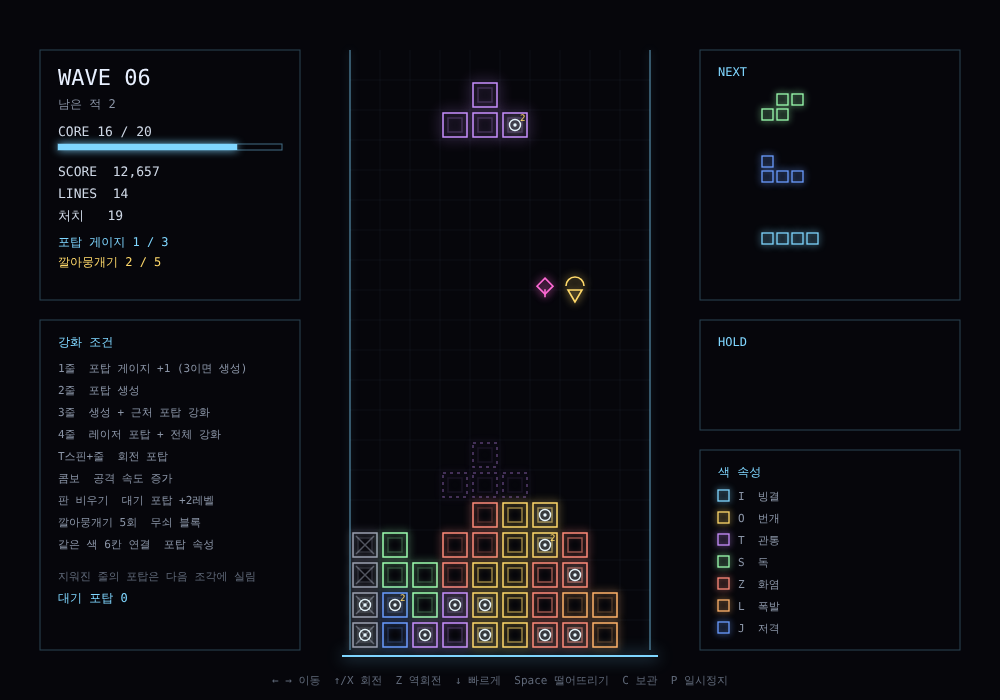
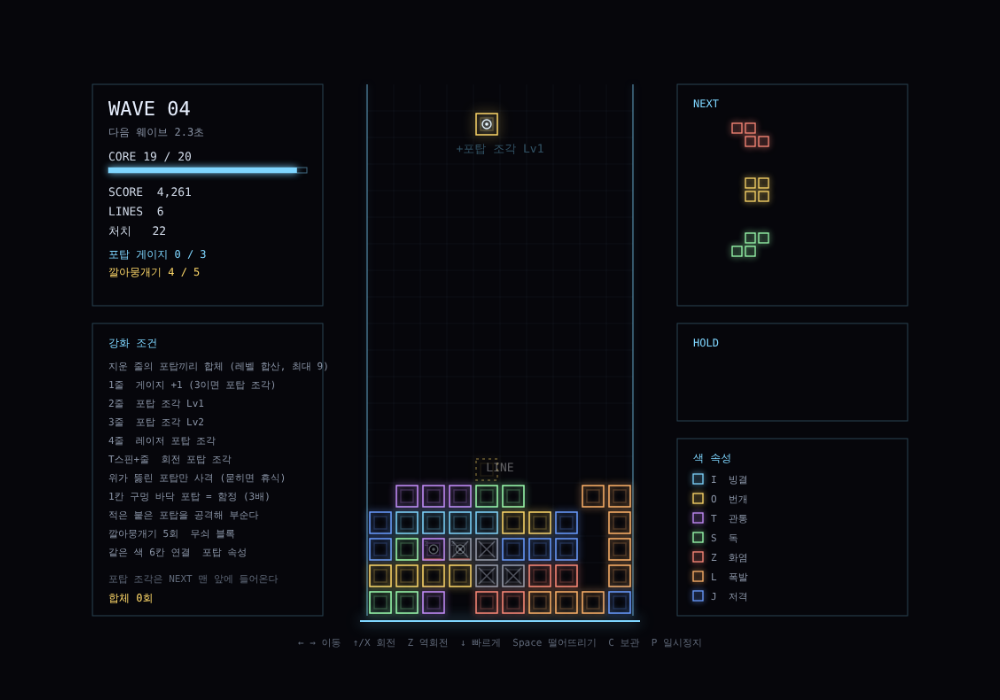
prototype: 포탑 재설계 (포탑 조각, 줄 합체, 함정, 포탑 체력), 적 증가
- 포탑은 1칸짜리 포탑 조각으로만 생성, 다음 목록 맨 앞에 들어옴
- 지운 줄의 포탑끼리 합체해 레벨 합산 (최대 9)
- 위가 뚫린 포탑만 사격, 1칸 구멍 바닥 포탑은 함정 (3배 피해)
- 적이 붙은 포탑을 공격해 부숨, 웨이브당 적 수 증가
- 버그 수정: 포탑 조각 삽입 시 다음 목록이 계속 늘어나던 문제
- 합체 단위 시험 추가, 문서와 의사결정 기록(D-035) 갱신

Claude-Session: https://claude.ai/code/session_016SHfTFKWnAwehWcokYQwXR

diff --git a/prototype/tetris-defense/index.html b/prototype/tetris-defense/index.html
@@ -49,17 +49,18 @@ for (const t in BASE) {
   const n = t === 'I' ? 4 : 3; let cur = BASE[t]; SHAPES[t] = [cur];
   for (let r = 1; r < 4; r++) { cur = t === 'O' ? cur : cur.map(([x, y]) => [n - 1 - y, x]); SHAPES[t].push(cur); }
 }
+SHAPES.P = [[[1,1]], [[1,1]], [[1,1]], [[1,1]]]; // 1칸짜리 포탑 조각
 const KICKS = [[0,0],[-1,0],[1,0],[0,-1],[-2,0],[2,0],[0,1]];
 
 const ENEMY = {
-  grunt:  { name:'낙하병', hp:30,  fall:.09, walk:.40, col:'#ff8a7a', solid:false, crush:true,  core:1 },
-  chute:  { name:'낙하산', hp:20,  fall:.45, walk:.40, col:'#ffd96a', solid:false, crush:true,  core:1 },
-  bomb:   { name:'폭탄',   hp:25,  fall:.09, walk:.50, col:'#ffb36a', solid:false, crush:true,  core:1 },
-  digger: { name:'굴착',   hp:40,  fall:.09, walk:.50, col:'#ff6ad5', solid:false, crush:true,  core:1 },
-  ghost:  { name:'유령',   hp:25,  fall:1.4, walk:9,   col:'#b8c4ff', solid:false, crush:false, core:1 },
-  shield: { name:'방패병', hp:90,  fall:.09, walk:.55, col:'#e8f0ff', solid:true,  crush:false, core:2 },
-  spider: { name:'거미',   hp:25,  fall:.09, walk:.30, col:'#9cffb0', solid:false, crush:true,  core:1 },
-  boss:   { name:'보스',   hp:340, fall:.12, walk:.80, col:'#ff4fa8', solid:true,  crush:false, core:5, size:2 },
+  grunt:  { name:'낙하병', hp:30,  fall:.09, walk:.40, col:'#ff8a7a', solid:false, crush:true,  core:1, atk:8 },
+  chute:  { name:'낙하산', hp:20,  fall:.45, walk:.40, col:'#ffd96a', solid:false, crush:true,  core:1, atk:6 },
+  bomb:   { name:'폭탄',   hp:25,  fall:.09, walk:.50, col:'#ffb36a', solid:false, crush:true,  core:1, atk:0 },
+  digger: { name:'굴착',   hp:40,  fall:.09, walk:.50, col:'#ff6ad5', solid:false, crush:true,  core:1, atk:14 },
+  ghost:  { name:'유령',   hp:25,  fall:1.4, walk:9,   col:'#b8c4ff', solid:false, crush:false, core:1, atk:0 },
+  shield: { name:'방패병', hp:90,  fall:.09, walk:.55, col:'#e8f0ff', solid:true,  crush:false, core:2, atk:12 },
+  spider: { name:'거미',   hp:25,  fall:.09, walk:.30, col:'#9cffb0', solid:false, crush:true,  core:1, atk:6 },
+  boss:   { name:'보스',   hp:340, fall:.12, walk:.80, col:'#ff4fa8', solid:true,  crush:false, core:5, atk:35, size:2 },
 };
 const UNLOCK = [['grunt',1],['chute',2],['bomb',3],['digger',4],['spider',5],['shield',6],['ghost',7]];
 
@@ -73,9 +74,10 @@ function newGame() {
     enemies: [], warnings: [], fx: [], texts: [], beams: [],
     wave: 1, toSpawn: 0, spawnT: 0, breakT: 3, waveActive: false,
     core: 20, score: 0, lines: 0, kills: 0, combo: -1, gauge: 0, crushes: 0, ironNext: false,
-    recycle: [], over: false, paused: false, started: S ? true : false, time: 0, bossAlive: false,
+    merges: 0, over: false, paused: false, started: S ? true : false, time: 0, bossAlive: false,
   };
   for (let i = 0; i < 3; i++) S.next.push(makePiece());
+  S.next.unshift(turretPiece(1, 'basic'));
   spawnPiece();
 }
 function fromBag() {
@@ -84,15 +86,23 @@ function fromBag() {
 }
 function makePiece() {
   const t = fromBag();
-  const turrets = [], idxs = [0, 1, 2, 3].sort(() => Math.random() - .5);
-  while (S.recycle.length && turrets.length < 2) turrets.push({ ...S.recycle.shift(), idx: idxs[turrets.length] });
-  if (!turrets.length && Math.random() < .22) turrets.push({ kind: 'basic', lvl: 1, idx: idxs[0] });
-  return { t, turrets, iron: false };
+  return { t, c: t, turrets: [], iron: false };
+}
+const TKIND_RANK = { basic: 0, spin: 1, laser: 2 };
+const turretHp = l => 40 + 25 * l;
+function turretPiece(lvl, kind) {
+  const cols = Object.keys(BASE);
+  return { t: 'P', c: cols[Math.random() * cols.length | 0], turrets: [{ kind, lvl, idx: 0 }], iron: false };
+}
+// 포탑 조각을 다음 목록 맨 앞에 넣는다
+function addTurretPiece(lvl, kind, label) {
+  lvl = Math.min(9, lvl); S.next.unshift(turretPiece(lvl, kind));
+  popText(label || `+포탑 조각 Lv${lvl}`, 4.5, 3, '#7fd6ff');
 }
 function spawnPiece() {
-  const p = S.next.shift(); S.next.push(makePiece());
+  const p = S.next.shift(); while (S.next.length < 3) S.next.push(makePiece()); // 포탑 조각을 끼워 넣어도 목록이 늘어나지 않게
   if (S.ironNext) { p.iron = true; S.ironNext = false; }
-  S.piece = { ...p, r: 0, x: 3, y: p.t === 'I' ? -1 : 0 };
+  S.piece = { ...p, r: 0, x: p.t === 'P' ? 3 : 3, y: p.t === 'I' ? -1 : p.t === 'P' ? -1 : 0 };
   S.lockT = 0; S.lockMoves = 0; S.lastRotate = false; S.dropT = 0;
   if (cellsOf(S.piece).some(([x, y]) => y >= 0 && S.board[y][x])) gameOver('블록이 천장에 닿았다');
 }
@@ -126,8 +136,8 @@ const onGround = () => collide(S.piece, S.piece.x, S.piece.y + 1, S.piece.r);
 function softDrop() { const p = S.piece; if (!collide(p, p.x, p.y + 1, p.r)) { p.y++; S.score += 1; S.lastRotate = false; S.dropT = 0; } }
 function hardDrop() { const p = S.piece; let n = 0; while (!collide(p, p.x, p.y + 1, p.r)) { p.y++; n++; } if (n) S.lastRotate = false; S.score += n * 2; crushCheck(); lock(); }
 function holdPiece() {
-  if (!S.canHold) return; const cur = { t: S.piece.t, turrets: S.piece.turrets, iron: S.piece.iron };
-  if (S.hold) { const h = S.hold; S.hold = cur; S.piece = { ...h, r: 0, x: 3, y: h.t === 'I' ? -1 : 0 }; S.lockT = 0; S.lockMoves = 0; }
+  if (!S.canHold) return; const cur = { t: S.piece.t, c: S.piece.c, turrets: S.piece.turrets, iron: S.piece.iron };
+  if (S.hold) { const h = S.hold; S.hold = cur; S.piece = { ...h, r: 0, x: 3, y: h.t === 'I' || h.t === 'P' ? -1 : 0 }; S.lockT = 0; S.lockMoves = 0; }
   else { S.hold = cur; spawnPiece(); }
   S.canHold = false;
 }
@@ -148,7 +158,7 @@ function lock() {
   cells.forEach(([x, y], i) => {
     if (y < 0) { above = true; return; }
     const tu = p.turrets.find(q => q.idx === i);
-    S.board[y][x] = { c: p.iron ? 'X' : p.t, iron: p.iron, turret: tu ? { kind: tu.kind, lvl: tu.lvl, cd: .5 } : null };
+    S.board[y][x] = { c: p.iron ? 'X' : (p.c || p.t), iron: p.iron, turret: tu ? { kind: tu.kind, lvl: tu.lvl, cd: .5, hp: turretHp(tu.lvl), maxhp: turretHp(tu.lvl) } : null };
   });
   S.canHold = true;
   if (above) { gameOver('블록이 천장을 넘었다'); return; }
@@ -159,8 +169,8 @@ function lock() {
   spawnPiece();
 }
 function clearRows(rows, tspin) {
-  const n = rows.length;
-  rows.forEach(y => S.board[y].forEach(c => { if (c.turret) S.recycle.push({ kind: c.turret.kind, lvl: c.turret.lvl }); }));
+  const n = rows.length, found = [];
+  rows.forEach(y => S.board[y].forEach(c => { if (c.turret) found.push(c.turret); }));
   for (const y of rows.slice().sort((a, b) => a - b)) {
     S.board.splice(y, 1); S.board.unshift(Array(COLS).fill(null));
     S.enemies.forEach(e => { if (ENEMY[e.type].solid || e.type === 'ghost') { if (e.gy === y) e.dead = true; } if (e.gy < y) { e.gy++; e.py++; } });
@@ -170,27 +180,23 @@ function clearRows(rows, tspin) {
   S.lines += n; S.combo++;
   S.score += [0, 100, 300, 500, 800][n] * S.wave + Math.max(0, S.combo) * 50;
   const midY = rows[0];
-  const label = ['', 'LINE', 'DOUBLE', 'TRIPLE', 'TETRIS'][n];
-  popText(label + (S.combo > 0 ? `  COMBO x${S.combo}` : ''), 4.5, midY, '#ffffff');
-  if (n === 1) { S.gauge++; if (S.gauge >= 3) { S.gauge -= 3; createTurret('basic'); } }
-  if (n === 2) createTurret('basic');
-  if (n === 3) { createTurret('basic'); upgradeNear(midY, 4); }
-  if (n === 4) { createTurret('laser'); upgradeAll(); }
-  if (tspin) { createTurret('spin'); popText('T-SPIN', 4.5, midY - 1, COLOR.T); }
-  if (S.board.every(r => r.every(c => !c))) { popText('PERFECT CLEAR', 4.5, 10, '#9cffb0'); S.recycle.forEach(t => t.lvl = Math.min(5, t.lvl + 2)); S.gauge = 2; }
-}
-function surfaceCells() { const out = []; for (let x = 0; x < COLS; x++) for (let y = 0; y < ROWS; y++) if (S.board[y][x]) { if (!S.board[y][x].turret && !S.board[y][x].iron) out.push([x, y]); break; } return out; }
-function createTurret(kind) {
-  const cand = surfaceCells();
-  if (!cand.length) { S.recycle.push({ kind, lvl: 1 }); popText('포탑 대기', 4.5, 3, '#7fd6ff'); return; }
-  const [x, y] = cand[Math.random() * cand.length | 0];
-  S.board[y][x].turret = { kind, lvl: 1, cd: .3 };
-  popText({ basic: '+포탑', laser: '+레이저 포탑', spin: '+회전 포탑' }[kind], x, y, '#7fd6ff');
-  S.fx.push({ kind: 'ring', x: x + .5, y: y + .5, t: .5, col: '#7fd6ff' });
+  popText(['', 'LINE', 'DOUBLE', 'TRIPLE', 'TETRIS'][n] + (S.combo > 0 ? `  COMBO x${S.combo}` : ''), 4.5, midY, '#ffffff');
+  // 보상 포탑 조각
+  if (n === 1) { S.gauge++; if (S.gauge >= 3) { S.gauge -= 3; addTurretPiece(1, 'basic'); } }
+  if (n === 2) addTurretPiece(1, 'basic');
+  if (n === 3) addTurretPiece(2, 'basic');
+  if (n === 4) addTurretPiece(2, 'laser', '+레이저 포탑 조각');
+  if (tspin) addTurretPiece(1, 'spin', '+회전 포탑 조각');
+  // 지운 줄의 포탑 합체: 레벨 합산, 가장 좋은 종류 유지 (맨 앞에 오도록 마지막에 넣는다)
+  if (found.length) {
+    const lvl = Math.min(9, found.reduce((a, t) => a + t.lvl, 0));
+    const kind = found.reduce((a, t) => TKIND_RANK[t.kind] > TKIND_RANK[a] ? t.kind : a, 'basic');
+    if (found.length >= 2) { S.merges++; S.fx.push({ kind: 'ring', x: 4.5, y: midY + .5, t: .6, col: '#ffd96a', big: true }); }
+    addTurretPiece(lvl, kind, found.length >= 2 ? `포탑 ${found.length}개 합체! Lv${lvl}` : `포탑 회수 Lv${lvl}`);
+  }
+  if (S.board.every(r => r.every(c => !c))) { popText('PERFECT CLEAR', 4.5, 10, '#9cffb0'); S.next.forEach(q => q.turrets.forEach(t => t.lvl = Math.min(9, t.lvl + 2))); S.gauge = 2; }
 }
 function forTurrets(fn) { for (let y = 0; y < ROWS; y++) for (let x = 0; x < COLS; x++) { const c = S.board[y][x]; if (c && c.turret) fn(c, x, y); } }
-function upgradeNear(cy, r) { let n = 0; forTurrets((c, x, y) => { if (Math.abs(y - cy) <= r && c.turret.lvl < 5) { c.turret.lvl++; n++; S.fx.push({ kind: 'ring', x: x + .5, y: y + .5, t: .5, col: '#9cffb0' }); } }); if (n) popText(`포탑 ${n}개 강화`, 4.5, cy - 2, '#9cffb0'); }
-function upgradeAll() { let n = 0; forTurrets(c => { if (c.turret.lvl < 5) { c.turret.lvl++; n++; } }); S.recycle.forEach(t => t.lvl = Math.min(5, t.lvl + 1)); if (n) popText(`포탑 전체 강화`, 4.5, 8, '#9cffb0'); }
 function recomputeGroups() {
   const seen = Array.from({ length: ROWS }, () => Array(COLS).fill(false));
   for (let y = 0; y < ROWS; y++) for (let x = 0; x < COLS; x++) {
@@ -204,7 +210,7 @@ function recomputeGroups() {
 }
 function removeBlock(x, y) {
   const c = S.board[y]?.[x]; if (!c || c.iron) return false;
-  if (c.turret) S.recycle.push({ kind: c.turret.kind, lvl: c.turret.lvl });
+  if (c.turret) popText('포탑 파괴', x, y, '#ff6a6a');
   S.board[y][x] = null; S.fx.push({ kind: 'burst', x: x + .5, y: y + .5, t: .4, col: COLOR[c.c] }); return true;
 }
 
@@ -235,6 +241,17 @@ function stepEnemy(e, dt) {
   if (!blockedForEnemy(e, e.gx, e.gy + 1)) { e.gy++; e.prog = 0; e.dur = e.landed ? .09 : d.fall; e.stuck = 0; return; }
   if (!e.landed) { e.landed = true; if (e.type === 'bomb') e.fuse = 1.0; }
   if (e.type === 'bomb' && e.fuse > 0) { e.fuse -= dt; if (e.fuse <= 0) explode(e); return; }
+  // 옆이나 아래에 포탑이 붙어 있으면 멈춰 서서 공격
+  if (d.atk > 0) {
+    const adj = [];
+    for (let i = 0; i < sz; i++) adj.push([e.gx + i, e.gy + sz]);
+    for (let j = 0; j < sz; j++) adj.push([e.gx - 1, e.gy + j], [e.gx + sz, e.gy + j]);
+    for (const [ax, ay] of adj) { const c = S.board[ay]?.[ax]; if (c && c.turret) {
+      c.turret.hp -= d.atk * dt * (e.slow > 0 ? .5 : 1); e.attacking = [ax, ay];
+      if (c.turret.hp <= 0) { c.turret = null; S.fx.push({ kind: 'burst', x: ax + .5, y: ay + .5, t: .5, col: '#ff6a6a' }); popText('포탑 파괴', ax, ay, '#ff6a6a'); e.attacking = null; }
+      return; } }
+    e.attacking = null;
+  }
   e.stuck += dt;
   const chewAt = e.type === 'digger' ? 1.1 : 5;
   if (e.stuck >= chewAt && e.gy + sz < ROWS) { for (let i = 0; i < sz; i++) removeBlock(e.gx + i, e.gy + sz); recomputeGroups(); e.stuck = 0; return; }
@@ -271,15 +288,22 @@ function crushCheck() {
 }
 
 // ---------------------------------------------------------------- 포탑
-const TURRET = { basic: { dmg: 10, cd: .7, range: 3.5 }, laser: { dmg: 7, cd: .18, range: 5.5 }, spin: { dmg: 9, cd: 1.0, range: 2.2 } };
+const TURRET = { basic: { dmg: 12, cd: .6, range: 3.2 }, laser: { dmg: 8, cd: .16, range: 5.2 }, spin: { dmg: 10, cd: .9, range: 2.2 } };
+const exposed = (x, y) => y === 0 || !S.board[y - 1][x];
+const isTrap = (x, y) => y > 0 && !S.board[y - 1][x] && (x === 0 || S.board[y - 1][x - 1]) && (x === COLS - 1 || S.board[y - 1][x + 1]);
 function updateTurrets(dt) {
   const rate = 1 + Math.max(0, Math.min(S.combo, 10)) * .08;
   forTurrets((c, x, y) => {
     const T = TURRET[c.turret.kind], lvl = c.turret.lvl; const attr = c.attr;
-    let range = T.range + .3 * (lvl - 1), dmg = T.dmg * (1 + .5 * (lvl - 1)), cd = T.cd;
+    if (!exposed(x, y)) return; // 묻힌 포탑은 쉰다
+    let range = T.range + .35 * (lvl - 1), dmg = T.dmg * (1 + .6 * (lvl - 1)), cd = T.cd;
     if (attr === 'J') { range += 2.5; dmg *= 1.6; cd *= 1.4; } if (attr === 'T') dmg *= 1.25;
     c.turret.cd -= dt * rate; if (c.turret.cd > 0) return;
     const cx = x + .5, cy = y + .5;
+    if (isTrap(x, y)) { // 구멍 함정: 같은 세로줄 위 3칸 안의 적에게 3배 피해
+      const tg = S.enemies.find(e => !e.dead && e.gx === x && e.gy >= y - 3 && e.gy <= y - 1);
+      if (!tg) return; c.turret.cd = .35; const [ex, ey] = epos(tg);
+      S.beams.push({ x1: cx, y1: cy - .3, x2: ex, y2: ey, t: .09, col: '#ffd96a' }); hitEnemy(tg, dmg * 3, attr); return; }
     const inR = S.enemies.filter(e => !e.dead && e.gy >= 0 && dist(e, cx, cy) <= range);
     if (!inR.length) return;
     c.turret.cd = cd;
@@ -301,14 +325,15 @@ function segDist(e, x1, y1, x2, y2) { const [px, py] = epos(e); const dx = x2 - 
 
 // ---------------------------------------------------------------- 웨이브
 function updateWaves(dt) {
-  if (!S.waveActive) { S.breakT -= dt; if (S.breakT <= 0) { S.waveActive = true; S.toSpawn = 6 + S.wave * 3; S.spawnT = 1; if (S.wave % 5 === 0) S.warnings.push({ type: 'boss', x: 1 + Math.random() * 7 | 0, t: 2.0 }); popText(`WAVE ${S.wave}`, 4.5, 6, '#7fd6ff'); } return; }
+  if (!S.waveActive) { S.breakT -= dt; if (S.breakT <= 0) { S.waveActive = true; S.toSpawn = 10 + S.wave * 5; S.spawnT = 1; if (S.wave % 5 === 0) S.warnings.push({ type: 'boss', x: 1 + Math.random() * 7 | 0, t: 2.0 }); popText(`WAVE ${S.wave}`, 4.5, 6, '#7fd6ff'); } return; }
   S.spawnT -= dt;
   if (S.toSpawn > 0 && S.spawnT <= 0) {
-    S.spawnT = Math.max(.55, 2.3 - S.wave * .12); S.toSpawn--;
+    S.spawnT = Math.max(.35, 1.6 - S.wave * .1); S.toSpawn--;
     const pool = UNLOCK.filter(([, w]) => S.wave >= w).map(([t]) => t);
     let type = pool[Math.random() * pool.length | 0];
     if ((type === 'shield' || type === 'spider') && S.enemies.filter(e => e.type === 'shield' || e.type === 'spider').length + S.warnings.filter(w => w.type === 'shield' || w.type === 'spider').length >= 2) type = 'grunt';
     S.warnings.push({ type, x: Math.random() * COLS | 0, t: 1.3 });
+    if (S.wave >= 3 && S.toSpawn > 0 && Math.random() < .4) { S.toSpawn--; S.warnings.push({ type: 'grunt', x: Math.random() * COLS | 0, t: 1.5 }); }
   }
   if (S.toSpawn <= 0 && !S.enemies.length && !S.warnings.length) { S.waveActive = false; S.wave++; S.breakT = 6; S.score += 200 * S.wave; }
 }
@@ -351,12 +376,20 @@ function block(x, y, col, o = {}) {
   if (o.iron) { g.globalAlpha = .5; g.beginPath(); g.moveTo(X(x) + 6, Y(y) + 6); g.lineTo(X(x) + CELL - 6, Y(y) + CELL - 6); g.moveTo(X(x) + CELL - 6, Y(y) + 6); g.lineTo(X(x) + 6, Y(y) + CELL - 6); g.stroke(); }
   g.globalAlpha = 1;
 }
-function turretMark(x, y, t, alpha = 1) {
-  if (y < 0) return; const cx = X(x) + CELL / 2, cy = Y(y) + CELL / 2; g.globalAlpha = alpha; glow('#e8f8ff', 10); g.lineWidth = 1.4;
-  if (t.kind === 'laser') { g.strokeRect(cx - 6, cy - 6, 12, 12); g.beginPath(); g.moveTo(cx, cy - 9); g.lineTo(cx, cy + 9); g.stroke(); }
-  else if (t.kind === 'spin') { g.beginPath(); g.arc(cx, cy, 6, 0, 4.7); g.stroke(); g.beginPath(); g.arc(cx, cy, 2, 0, 6.3); g.fill(); }
-  else { g.beginPath(); g.arc(cx, cy, 5.5, 0, 6.3); g.stroke(); g.beginPath(); g.arc(cx, cy, 1.7, 0, 6.3); g.fill(); }
-  g.shadowBlur = 0; if (t.lvl > 1) { g.fillStyle = '#ffd96a'; g.font = '9px monospace'; g.fillText(t.lvl, X(x) + CELL - 10, Y(y) + 11); } g.globalAlpha = 1;
+function turretMark(x, y, t, alpha = 1, onBoard = false) {
+  if (y < 0) return; const cx = X(x) + CELL / 2, cy = Y(y) + CELL / 2;
+  const rest = onBoard && !exposed(x, y), trap = onBoard && !rest && isTrap(x, y);
+  g.globalAlpha = alpha * (rest ? .35 : 1); const col = trap ? '#ffd96a' : '#e8f8ff'; glow(col, rest ? 0 : 10); g.lineWidth = 1.4;
+  const r = 4.5 + Math.min(t.lvl, 9) * .45;
+  if (trap) { g.beginPath(); g.moveTo(cx - 8, cy + 6); for (let i = 0; i < 4; i++) { g.lineTo(cx - 8 + i * 4 + 2, cy - 6); g.lineTo(cx - 8 + i * 4 + 4, cy + 6); } g.stroke(); }
+  else if (t.kind === 'laser') { g.strokeRect(cx - r, cy - r, r * 2, r * 2); g.beginPath(); g.moveTo(cx, cy - r - 3); g.lineTo(cx, cy + r + 3); g.stroke(); }
+  else if (t.kind === 'spin') { g.beginPath(); g.arc(cx, cy, r, 0, 4.7); g.stroke(); g.beginPath(); g.arc(cx, cy, 2, 0, 6.3); g.fill(); }
+  else { g.beginPath(); g.arc(cx, cy, r, 0, 6.3); g.stroke(); g.beginPath(); g.arc(cx, cy, 1.8, 0, 6.3); g.fill(); }
+  if (t.lvl >= 5 && !trap) { g.lineWidth = 1; g.beginPath(); g.arc(cx, cy, r + 3.5, 0, 6.3); g.stroke(); }
+  g.shadowBlur = 0; if (t.lvl > 1) { g.fillStyle = '#ffd96a'; g.font = 'bold 10px monospace'; g.fillText(t.lvl, X(x) + CELL - 11, Y(y) + 11); }
+  if (onBoard && t.hp < t.maxhp) { g.fillStyle = 'rgba(255,255,255,.15)'; g.fillRect(X(x) + 4, Y(y) + CELL - 5, CELL - 8, 2); g.fillStyle = '#ff6a6a'; g.fillRect(X(x) + 4, Y(y) + CELL - 5, (CELL - 8) * Math.max(0, t.hp / t.maxhp), 2); }
+  if (rest) { g.fillStyle = '#8a94a6'; g.font = '9px monospace'; g.fillText('z', X(x) + 4, Y(y) + 11); }
+  g.globalAlpha = 1;
 }
 function drawEnemy(e) {
   const d = ENEMY[e.type], sz = d.size || 1, [ex, ey] = epos(e);
@@ -376,8 +409,8 @@ function drawEnemy(e) {
   if (e.hp < e.maxhp) { g.shadowBlur = 0; g.fillStyle = 'rgba(255,255,255,.15)'; const w = 16 * sz; g.fillRect(px - w / 2, py - 13 * sz, w, 2); g.fillStyle = d.col; g.fillRect(px - w / 2, py - 13 * sz, w * Math.max(0, e.hp / e.maxhp), 2); }
 }
 function drawMini(p, x0, y0, s = 15) {
-  if (!p) return; SHAPES[p.t][0].forEach(([x, y], i) => { const col = p.iron ? COLOR.X : COLOR[p.t]; g.lineWidth = 1.3; glow(col, 7); g.strokeRect(x0 + x * s + 2, y0 + y * s + 2, s - 4, s - 4);
-    if (p.turrets.some(q => q.idx === i)) { g.beginPath(); g.arc(x0 + x * s + s / 2, y0 + y * s + s / 2, 2.5, 0, 6.3); g.stroke(); } });
+  if (!p) return; SHAPES[p.t][0].forEach(([x, y], i) => { const col = p.iron ? COLOR.X : COLOR[p.c || p.t]; g.lineWidth = 1.3; glow(col, 7); g.strokeRect(x0 + x * s + 2, y0 + y * s + 2, s - 4, s - 4);
+    const tq = p.turrets.find(q => q.idx === i); if (tq) { g.beginPath(); g.arc(x0 + x * s + s / 2, y0 + y * s + s / 2, 3, 0, 6.3); g.stroke(); if (tq.lvl > 1) text('Lv' + tq.lvl, x0 + x * s + s + 4, y0 + y * s + s - 3, '#ffd96a', 11); } });
 }
 function text(s, x, y, col = '#cfd8e6', size = 13, align = 'left') { g.shadowBlur = 0; g.fillStyle = col; g.font = `${size}px "DejaVu Sans Mono", "Noto Sans KR", monospace`; g.textAlign = align; g.fillText(s, x, y); g.textAlign = 'left'; }
 function panel(x, y, w, h) { g.shadowBlur = 0; g.strokeStyle = 'rgba(127,214,255,.3)'; g.lineWidth = 1; g.strokeRect(x, y, w, h); }
@@ -397,16 +430,17 @@ function draw() {
     const cx = X(w.x) + sz * CELL / 2; g.beginPath(); g.moveTo(cx - 8 * sz, OY + 4); g.lineTo(cx, OY + 12 + 4 * sz); g.lineTo(cx + 8 * sz, OY + 4); g.stroke(); g.globalAlpha = 1;
     if (w.type === 'shield' || w.type === 'spider' || w.type === 'boss') text(ENEMY[w.type].name, cx, OY - 6, ENEMY[w.type].col, 11, 'center'); });
   // 블록
-  for (let y = 0; y < ROWS; y++) for (let x = 0; x < COLS; x++) { const c = S.board[y][x]; if (!c) continue; block(x, y, COLOR[c.c], { attr: !!c.attr, iron: c.iron }); if (c.turret) turretMark(x, y, c.turret); }
+  for (let y = 0; y < ROWS; y++) for (let x = 0; x < COLS; x++) { const c = S.board[y][x]; if (!c) continue; block(x, y, COLOR[c.c], { attr: !!c.attr, iron: c.iron }); if (c.turret) turretMark(x, y, c.turret, 1, true); }
   // 착지 그림자와 현재 조각
   if (S.piece && !S.over) {
     const p = S.piece; let gy = p.y; while (!collide(p, p.x, gy + 1, p.r)) gy++;
-    const col = p.iron ? COLOR.X : COLOR[p.t];
+    const col = p.iron ? COLOR.X : COLOR[p.c || p.t];
     cellsOf(p, p.x, gy).forEach(([x, y]) => block(x, y, col, { alpha: .4, dash: true }));
     cellsOf(p).forEach(([x, y], i) => { block(x, y, S.webT > 0 ? '#ffffff' : col, { blur: 14, iron: p.iron }); const tu = p.turrets.find(q => q.idx === i); if (tu) turretMark(x, y, tu); });
     if (S.webT > 0) { const [x, y] = cellsOf(p)[1]; text('거미줄', X(x) + 15, Y(y) - 8, '#9cffb0', 11, 'center'); }
   }
   // 적, 탄환, 효과
+  S.enemies.forEach(e => { if (e.attacking) { const [ex, ey] = epos(e); g.lineWidth = 1; glow('rgba(255,106,106,.7)', 6); g.setLineDash([2, 3]); g.beginPath(); g.moveTo(OX + ex * CELL, OY + ey * CELL); g.lineTo(X(e.attacking[0]) + CELL / 2, Y(e.attacking[1]) + CELL / 2); g.stroke(); g.setLineDash([]); } });
   S.enemies.forEach(drawEnemy);
   S.beams.forEach(b => { g.lineWidth = 2; glow(b.col, 10); g.globalAlpha = Math.min(1, b.t * 14); g.beginPath(); g.moveTo(OX + b.x1 * CELL, OY + b.y1 * CELL); g.lineTo(OX + b.x2 * CELL, OY + b.y2 * CELL); g.stroke(); g.globalAlpha = 1; });
   S.fx.forEach(f => {
@@ -426,12 +460,12 @@ function draw() {
   text(S.combo > 0 ? `COMBO x${S.combo}  공속 +${Math.min(S.combo, 10) * 8}%` : '', 58, 286, '#ffd96a', 12);
   panel(40, 320, 260, 330);
   text('강화 조건', 58, 346, '#7fd6ff', 12);
-  ['1줄  포탑 게이지 +1 (3이면 생성)', '2줄  포탑 생성', '3줄  생성 + 근처 포탑 강화', '4줄  레이저 포탑 + 전체 강화', 'T스핀+줄  회전 포탑', '콤보  공격 속도 증가', '판 비우기  대기 포탑 +2레벨', '깔아뭉개기 5회  무쇠 블록', '같은 색 6칸 연결  포탑 속성']
-    .forEach((s, i) => text(s, 58, 372 + i * 22, '#8a94a6', 11));
-  text('지워진 줄의 포탑은 다음 조각에 실림', 58, 580, '#5f6878', 11);
-  text(`대기 포탑 ${S.recycle.length}`, 58, 602, '#7fd6ff', 12);
+  ['지운 줄의 포탑끼리 합체 (레벨 합산, 최대 9)', '1줄  게이지 +1 (3이면 포탑 조각)', '2줄  포탑 조각 Lv1', '3줄  포탑 조각 Lv2', '4줄  레이저 포탑 조각', 'T스핀+줄  회전 포탑 조각', '위가 뚫린 포탑만 사격 (묻히면 휴식)', '1칸 구멍 바닥 포탑 = 함정 (3배)', '적은 붙은 포탑을 공격해 부순다', '깔아뭉개기 5회  무쇠 블록', '같은 색 6칸 연결  포탑 속성']
+    .forEach((s, i) => text(s, 58, 372 + i * 21, '#8a94a6', 11));
+  text('포탑 조각은 NEXT 맨 앞에 들어온다', 58, 612, '#5f6878', 11);
+  text(`합체 ${S.merges}회`, 58, 634, '#ffd96a', 12);
   // 오른쪽 패널
-  panel(700, 50, 260, 250); text('NEXT', 718, 76, '#7fd6ff', 12); S.next.forEach((p, i) => drawMini(p, 760, 92 + i * 62));
+  panel(700, 50, 260, 250); text('NEXT', 718, 76, '#7fd6ff', 12); S.next.slice(0, 3).forEach((p, i) => drawMini(p, 760, 92 + i * 62));
   panel(700, 320, 260, 110); text('HOLD', 718, 346, '#7fd6ff', 12); drawMini(S.hold, 760, 362);
   panel(700, 450, 260, 200); text('색 속성', 718, 476, '#7fd6ff', 12);
   Object.entries(ATTR_NAME).forEach(([k, v], i) => { glow(COLOR[k], 6); g.lineWidth = 1.3; g.strokeRect(718, 490 + i * 22, 11, 11); text(`${k}  ${v}`, 738, 500 + i * 22, '#8a94a6', 11); });

diff --git a/prototype/tetris-defense/mergetest.js b/prototype/tetris-defense/mergetest.js
@@ -1,0 +1,19 @@
+const { chromium } = require('playwright');
+(async () => {
+  const b = await chromium.launch(); const p = await b.newPage();
+  const errors = []; p.on('pageerror', e => errors.push(e.message));
+  await p.goto('file://' + process.argv[2]);
+  const r = await p.evaluate(() => {
+    const A = window.__api, S = window.__td(); A.newGame(); const s = window.__td(); s.started = true;
+    for (let x = 0; x < 9; x++) s.board[19][x] = { c: 'I', iron: false, turret: null };
+    s.board[19][0].turret = { kind: 'basic', lvl: 1, cd: 1, hp: 65, maxhp: 65 };
+    s.board[19][3].turret = { kind: 'spin', lvl: 2, cd: 1, hp: 90, maxhp: 90 };
+    s.board[18][5] = { c: 'O', iron: false, turret: { kind: 'basic', lvl: 1, cd: 1, hp: 65, maxhp: 65 } }; // 남는 줄의 포탑
+    s.piece = { t: 'P', c: 'Z', turrets: [], iron: false, r: 0, x: 8, y: 0 };
+    A.hardDrop();
+    const nxt = window.__td().next[0], cur = window.__td().piece;
+    const kept = window.__td().board[19][5];
+    return { lines: window.__td().lines, merges: window.__td().merges, nextPiece: cur.t, nextTurrets: cur.turrets, keptTurret: kept && kept.turret ? kept.turret.lvl : null };
+  });
+  console.log(JSON.stringify(r)); console.log('errors:', errors.length ? errors : 'none'); await b.close();
+})();

diff --git a/prototype/tetris-defense/bottest.js b/prototype/tetris-defense/bottest.js
@@ -32,7 +32,7 @@ const { chromium } = require('playwright');
       A.update(dt);
       const s = S(); maxWave = Math.max(maxWave, s.wave); s.enemies.forEach(e => enemiesSeen.add(e.type));
       let tc = 0; s.board.forEach(r => r.forEach(c => { if (c && c.turret) tc++; })); turretsMax = Math.max(turretsMax, tc);
-      if (i % (60 * 30) === 0) log.push({ sec: Math.round(t), wave: s.wave, core: s.core, lines: s.lines, kills: s.kills, enemies: s.enemies.length, turrets: tc, recycle: s.recycle.length, crushes: s.crushes });
+      if (i % (60 * 30) === 0) log.push({ sec: Math.round(t), wave: s.wave, core: s.core, lines: s.lines, kills: s.kills, enemies: s.enemies.length, turrets: tc, merges: s.merges, crushes: s.crushes });
       if (s.over) { log.push({ over: s.overWhy, sec: Math.round(t), wave: s.wave }); break; }
     }
     const s = S();

diff --git a/docs/08-shape-concepts.md b/docs/08-shape-concepts.md
@@ -290,3 +290,26 @@ The Tower는 가운데 타워가 자동으로 쏘고, 돈으로 강화하며 웨
 ## 12. 웹 프로토타입
 
 플레이 가능한 프로토타입: [prototype/tetris-defense](../prototype/tetris-defense/README.md)
+
+## 13. 포탑 재설계 (플레이 피드백 반영)
+
+피드백: 포탑이 의미가 없다. 원인은 배치 선택이 없고, 금방 묻혀 사거리 밖이 되고, 효과가 눈에 띄지 않는 것.
+
+| 규칙 | 내용 |
+|---|---|
+| 포탑 조각 | 포탑은 1칸짜리 포탑 조각으로만 생긴다. 다음 조각 목록 맨 앞에 들어와 직접 원하는 자리에 떨어뜨린다. 일반 조각의 무작위 포탑은 없앰 |
+| 줄 합체 | 지운 줄에 있던 포탑은 모두 합쳐져 레벨이 합산된 포탑 조각 하나가 된다 (최대 9). 종류는 가장 좋은 것(레이저 > 회전 > 일반)을 유지. 포탑이 하나뿐이면 레벨 그대로 돌아온다 |
+| 보상 | 1줄 게이지 +1 (3이면 Lv1 조각), 2줄 Lv1 조각, 3줄 Lv2 조각, 4줄 레이저 Lv2 조각, T 스핀 회전 포탑 조각 |
+| 표면과 휴식 | 위가 뚫린 포탑만 쏜다. 묻힌 포탑은 쉰다 (흐리게 표시) |
+| 구멍 함정 | 1칸 구멍 바닥의 포탑은 같은 세로줄 위 3칸 안의 적에게 3배 피해 |
+| 포탑 체력 | 체력 40 + 25 × 레벨. 적이 옆이나 아래에 붙으면 멈춰 서서 공격한다. 폭탄과 굴착으로 블록이 부서지면 포탑도 파괴 |
+| 레벨 성장 | 레벨마다 사거리 +0.35, 공격력 +60%. 5레벨부터 바깥 고리 |
+| 적 증가 | 웨이브당 10 + 5 × 웨이브. 등장 간격 단축. 3웨이브부터 40% 확률로 두 마리 동시 |
+
+생기는 판단: 포탑을 표면에 두면 지키지만 공격받고, 한 줄에 모아 묻어 두면 쉬지만 그 줄을 지울 때 합체해 크게 성장한다.
+
+| 검증 | 결과 (2026-11-07) |
+|---|---|
+| 합체 단위 시험 | Lv1 일반 + Lv2 회전 → Lv3 회전 조각, 남은 줄 포탑 유지 |
+| 봇 시험 | 오류 없음, 4~5웨이브, 합체 16~21회. 적 증가로 핵이 먼저 무너짐 |
+| 고친 버그 | 포탑 조각을 끼워 넣을 때마다 다음 조각 목록이 영구히 늘어나던 문제 |

diff --git a/prototype/tetris-defense/README.md b/prototype/tetris-defense/README.md
@@ -24,8 +24,11 @@
 - 테트리스: 7종 블록(7-bag), 회전 보정, 착지 그림자, 다음 3개, 보관, 고정 지연
 - 적 8종: 낙하병, 낙하산, 폭탄, 굴착, 유령, 방패병, 거미, 보스. 등장 전 경고. 방패병과 거미는 화면당 합쳐서 2마리까지
 - 처치: 깔아뭉개기(방패병, 보스, 유령 제외), 포탑
-- 포탑 생성과 강화: 1줄 게이지, 2줄 생성, 3줄 생성과 근처 강화, 4줄 레이저 포탑과 전체 강화, T 스핀 회전 포탑, 콤보 공격 속도, 판 비우기
-- 지워진 줄의 포탑은 회수되어 다음 조각에 실림 (조각당 최대 2개)
+- 포탑 조각: 포탑은 1칸짜리 조각으로 다음 목록 맨 앞에 들어와 직접 놓는다
+- 줄 합체: 지운 줄의 포탑끼리 합쳐 레벨 합산 (최대 9)
+- 보상: 1줄 게이지, 2줄 Lv1, 3줄 Lv2, 4줄 레이저, T 스핀 회전 포탑, 콤보 공격 속도, 판 비우기
+- 위가 뚫린 포탑만 사격, 묻힌 포탑은 휴식. 1칸 구멍 바닥 포탑은 함정 (3배 피해)
+- 포탑 체력: 적이 붙어서 공격하면 부서진다
 - 같은 색 6칸 연결 시 포탑 속성: 빙결, 번개, 관통, 독, 화염, 폭발, 저격
 - 깔아뭉개기 5회마다 무쇠 블록 (적이 갉아 먹지 못함)
 - 판 끝: 블록이 천장에 닿거나 핵 체력 0
@@ -37,5 +40,7 @@
 |---|---|
 | 일반 진행 | 161초, 5웨이브, 처치 60, 오류 없음 |
 | 적 8종 동시 소환 | 142초, 5웨이브, 처치 61, 오류 없음 |
+| 포탑 재설계 후 봇 진행 (11-07) | 4~5웨이브, 합체 16~21회, 오류 없음 |
+| 포탑 합체 단위 시험 (11-07) | Lv1 + Lv2 회전 → Lv3 회전 조각 |
 
 시험 중 고친 버그: 떨어지는 중인 보스와 방패병이 블록 생성 위치를 막아 시작하자마자 지는 문제. 단단한 적은 착지한 뒤에만 블록을 막도록 수정.

diff --git a/docs/05-decision-log.md b/docs/05-decision-log.md
@@ -38,3 +38,4 @@
 | D-032 | 2026-11-05 | 테트리스 디펜스를 자유 배치 방식에서 낙하식(진짜 테트리스)으로 변경. 깔아뭉개기, 줄 지우기 충격파, 구멍이 적의 길 | 자유 배치는 테트리스 손맛이 없고 판이 차는 문제가 있음. 낙하식은 줄 지우기로 해결 | 자유 배치 미로 |
 | D-033 | 2026-11-05 | 줄 지우기 충격파 제거. 줄 지우기는 포탑 생성과 강화 조건으로만 쓰고, 지워지는 줄의 포탑은 회수되어 다음 조각에 실린다 | 사용자 결정. 적 처치 수단을 포탑과 깔아뭉개기로 집중 | 충격파 유지 |
 | D-034 | 2026-11-05 | 블록과 적의 충돌은 특정 적 특성으로만: 방패병(블록이 얹힘), 거미(1초 좌우 이동 묶기), 보스(블록이 얹힘). 등장 경고, 화면당 최대 2마리 | 모든 적이 막으면 깔아뭉개기와 충돌하고 억울한 구멍이 생김. 특성으로 쓰면 긴장감 | 모든 적과 충돌 |
+| D-035 | 2026-11-07 | 포탑 재설계: 포탑 조각, 줄 합체(레벨 합산), 표면만 사격, 구멍 함정, 포탑 체력과 적 공격, 적 수 증가 | 플레이 피드백: 포탑이 의미 없음, 적이 적음. 사용자 제안(줄 합체, 포탑 파괴) 반영 | 묻히면 충전, 지우면 발사 |
